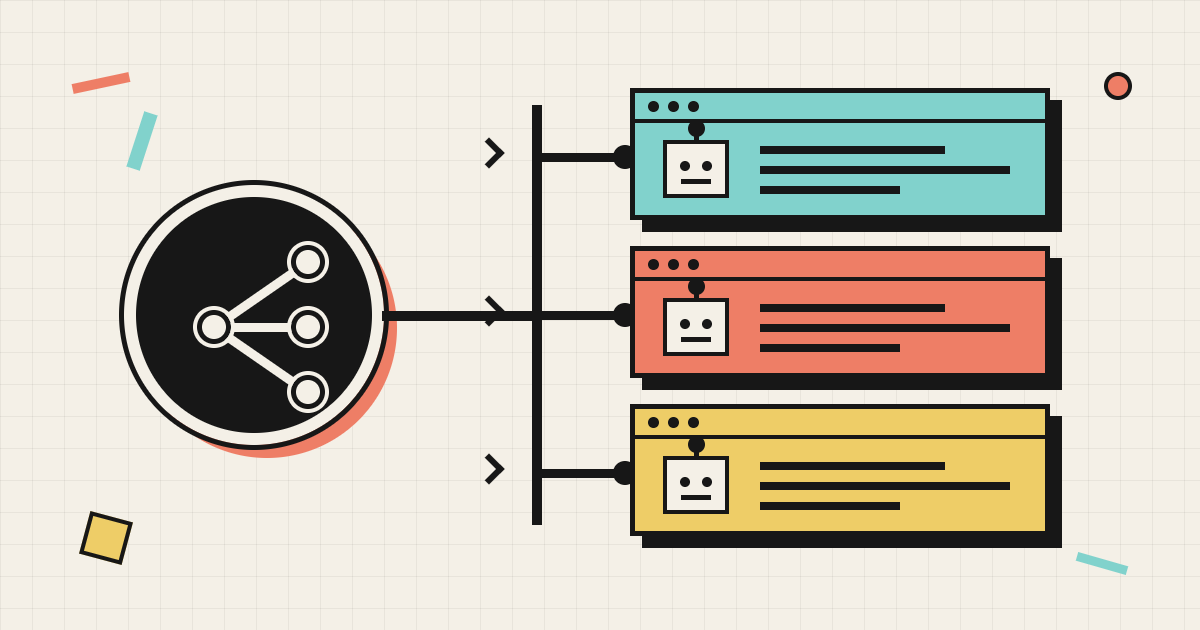
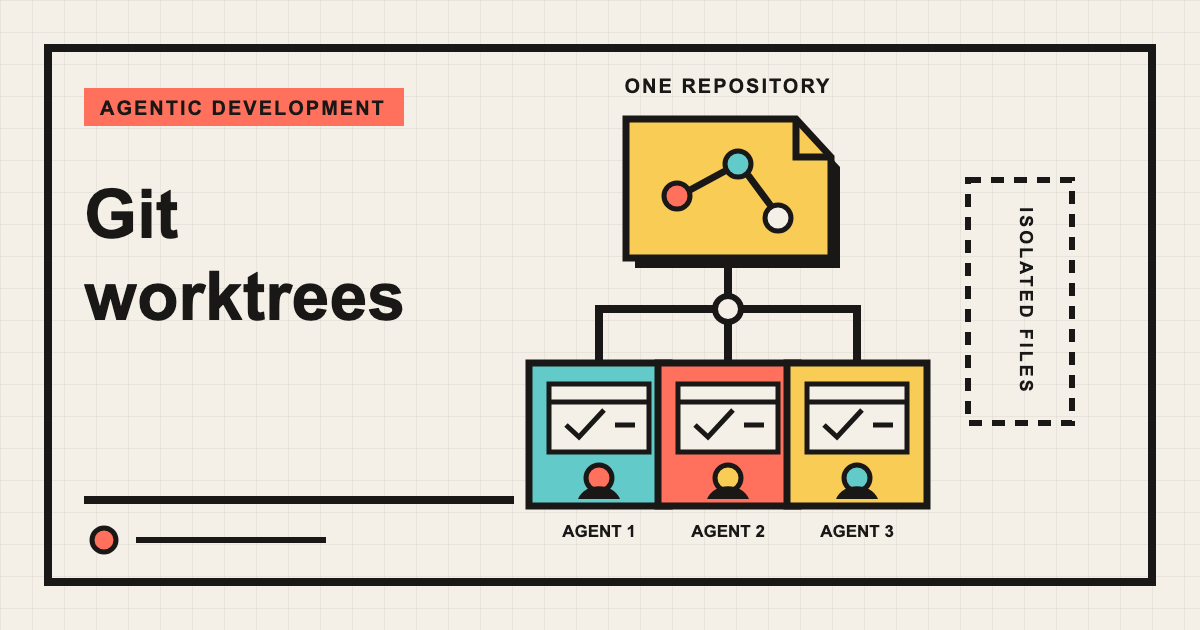
Update image refereces with image

diff --git a/_includes/post-list-item.html b/_includes/post-list-item.html
@@ -18,9 +18,9 @@
             <span>{{ post_author.name | default: post.author | default: site.title }}</span>
         </p>
     </div>
-    {%- if post.image -%}
+    {%- if post.cover -%}
     <a class="post-list-thumbnail" href="{{ post.url | relative_url }}" aria-label="Read {{ post.title | escape }}">
-        <img src="{{ post.image | relative_url }}" alt="" loading="lazy">
+        <img src="{{ post.cover | relative_url }}" alt="" loading="lazy">
     </a>
     {%- endif -%}
 </article>

diff --git a/_layouts/post.html b/_layouts/post.html
@@ -2,7 +2,7 @@
 layout: default
 ---
 <article class="post h-entry" itemscope itemtype="http://schema.org/BlogPosting">
-  {%- assign postimage = page.banner | default: page.image -%}
+  {%- assign postimage = page.banner | default: page.cover -%}
   {%- if postimage -%}
 <div class="centered-image-container">
   <img alt="" src="{{ postimage | relative_url }}" class="centered-image no-shadow" />

diff --git a/_includes/head.html b/_includes/head.html
@@ -12,7 +12,6 @@
     {%- include google-analytics.html -%}
     {%- endif -%}
     {%- include microsoft-clarity.html -%}
-    {% seo %}
     <link rel="apple-touch-icon" sizes="180x180" href="{{'/assets/images/favicon/apple-touch-icon.png'|relative_url}}">
     <link rel="icon" type="image/png" sizes="32x32" href="{{'/assets/images/favicon/favicon-32x32.png'|relative_url}}">
     <link rel="icon" type="image/png" sizes="16x16" href="{{'/assets/images/favicon/favicon-16x16.png'|relative_url}}">

diff --git a/_posts/distrib/2021-09-12-setting-up-nginx-load-balancer.md b/_posts/distrib/2021-09-12-setting-up-nginx-load-balancer.md
@@ -6,7 +6,8 @@ title: Setting up a load balancer from scratch
 subtitle: Setup a set of VMs with one load balancer and multiple worker nodes.
 tldr: NGINX is OSS for web serving, reverse proxying, caching, load balancing etc.A load balancer is the “traffic cop” sitting in front of your servers and routing client requests.
 permalink: /blog/distrib/setting-up-nginx-load-balancer
-image: /assets/images/distrib/DISTRIB01/cover.svg
+cover: /assets/images/distrib/DISTRIB01/cover.svg
+image: /assets/images/distrib/DISTRIB01/cover.png
 author: srungta
 tags: 
 - Nginx

diff --git a/_posts/distrib/2022-10-16-setting-up-vpn-gateway-on-azure.md b/_posts/distrib/2022-10-16-setting-up-vpn-gateway-on-azure.md
@@ -6,7 +6,8 @@ title: Setting up a VPN Gateway on Azure
 subtitle: Create a virtual network with multiple VMs and connect to them via a VPN gateway.
 tldr: VPNs are an excellent way to connect to proiate network of machines that you don't want to expose to the public internet.
 permalink: /blog/distrib/setting-up-azure-vpn-gateway
-image: /assets/images/distrib/DISTRIB02/cover.svg
+cover: /assets/images/distrib/DISTRIB02/cover.svg
+image: /assets/images/distrib/DISTRIB02/cover.png
 author: srungta
 tags: 
 - Azure

diff --git a/_posts/jekyll/2025-05-06-getting-feedback-via-github-issue.md b/_posts/jekyll/2025-05-06-getting-feedback-via-github-issue.md
@@ -6,7 +6,8 @@ title: Getting Feedback via GitHub Issues
 subtitle: If your code and content are on GitHub, your feedback can be too.
 tldr: Integrate creation of GitHub Issues directly with prefilled values from your Jekyll site.
 permalink: /blog/jekyll/getting-feedback-via-github-issue
-image: /assets/images/jekyll/JEKYLL01/cover.svg
+cover: /assets/images/jekyll/JEKYLL01/cover.svg
+image: /assets/images/jekyll/JEKYLL01/cover.png
 author: srungta
 tags:
   - Jekyll

diff --git a/_posts/jekyll/2025-05-11-creating-series-of-articles.md b/_posts/jekyll/2025-05-11-creating-series-of-articles.md
@@ -5,7 +5,8 @@ title: Creating a Series of Articles In Jekyll
 subtitle: Linked articles within a series should be easily navigable.
 tldr: Easily group and link related blog posts in Jekyll using front matter and data files for sequential navigation.
 permalink: /blog/jekyll/series-of-posts
-image: /assets/images/jekyll/JEKYLL02/cover.svg
+cover: /assets/images/jekyll/JEKYLL02/cover.svg
+image: /assets/images/jekyll/JEKYLL02/cover.png
 author: srungta
 tags:
   - Jekyll

diff --git a/_posts/llm/2025-06-09-mcp-server-basics.md b/_posts/llm/2025-06-09-mcp-server-basics.md
@@ -14,7 +14,8 @@ series:
   id: LLM
   index: 1
 
-image: /assets/images/llm/LLMMCP01/cover.svg
+cover: /assets/images/llm/LLMMCP01/cover.svg
+image: /assets/images/llm/LLMMCP01/cover.png
 ---
 
 ## Introduction to MCP Servers

diff --git a/_posts/llm/2026-03-03-llm-friendly-codebases.md b/_posts/llm/2026-03-03-llm-friendly-codebases.md
@@ -6,7 +6,8 @@ title: Making Your Codebase LLM Friendly
 subtitle: Simple practices to help AI assistants understand and work with your code effectively
 tldr: Treat LLMs like new hires on your team. The same things that help human developers also help AI - clear patterns, good documentation, and consistent conventions.
 permalink: /blog/llm/llm-friendly-codebases
-image: /assets/images/llm/LLMCODE01/cover.svg
+cover: /assets/images/llm/LLMCODE01/cover.svg
+image: /assets/images/llm/LLMCODE01/cover.png
 author: srungta
 tags:
   - LLM

diff --git a/_posts/llm/2026-07-16-git-worktrees-for-agentic-development.md b/_posts/llm/2026-07-16-git-worktrees-for-agentic-development.md
@@ -6,7 +6,8 @@ subtitle: Give every coding agent an isolated workspace without cloning the repo
 tldr: Use Git worktrees to run agents in parallel without sharing working files or duplicating history.
 permalink: /blog/llm/git-worktrees-for-agentic-development
 author: srungta
-image: /assets/images/llm/LLMWT01/cover.svg
+cover: /assets/images/llm/LLMWT01/cover.svg
+image: /assets/images/llm/LLMWT01/cover.png
 tags:
   - LLM
   - Git

diff --git a/_posts/llm/2026-07-19-multi-slot-local-dev-with-worktrees-and-caddy.md b/_posts/llm/2026-07-19-multi-slot-local-dev-with-worktrees-and-caddy.md
@@ -6,7 +6,8 @@ subtitle: Stable URLs and isolated databases for apps running from several workt
 tldr: Each worktree runs its own frontend and API, Caddy routes stable local hostnames to them, and a separate Cosmos database keeps each slot's data isolated.
 permalink: /blog/llm/multi-slot-local-dev-with-worktrees-and-caddy
 author: srungta
-image: /assets/images/llm/LLMSLOT01/cover.svg
+cover: /assets/images/llm/LLMSLOT01/cover.svg
+image: /assets/images/llm/LLMSLOT01/cover.png
 tags:
   - LLM
   - Git

diff --git a/_posts/redis/2021-05-19-introduction-to-redis.md b/_posts/redis/2021-05-19-introduction-to-redis.md
@@ -5,7 +5,8 @@ unique_id: REDIS1
 title: Introduction to Redis
 tldr: Introduces redis as a distributed key value store using analogies.
 permalink: /blog/redis/introduction-to-redis
-image: /assets/images/redis/REDIS1/cover.svg
+cover: /assets/images/redis/REDIS1/cover.svg
+image: /assets/images/redis/REDIS1/cover.png
 author: srungta
 tags: 
 - Redis